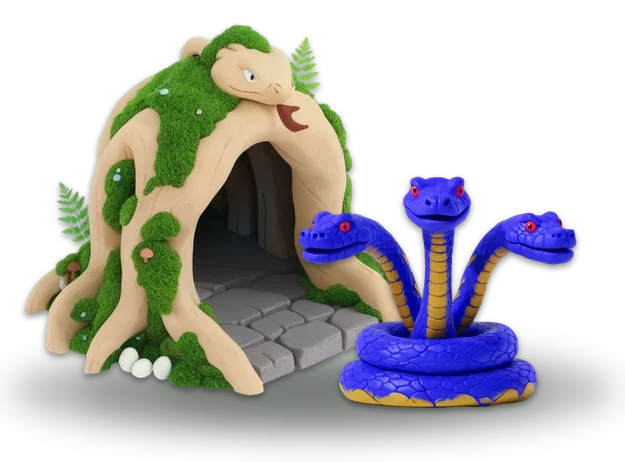
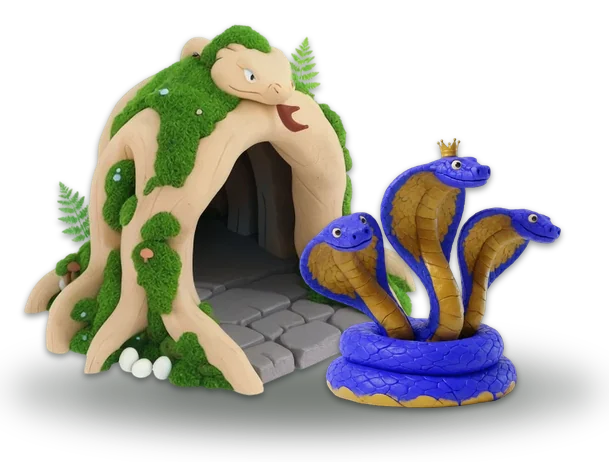
Dessins du fils : le serpent volant et King Snake à trois têtes de cobra
Pâte à modeler, Magnific (612 crédits sur 1 500 accordés par le parent,
dessins B et B choisis par lui). Les ailes tracées par le code sont retirées :
elles sont dans le dessin. Aucune règle ne change.

Claude-Session: https://claude.ai/code/session_0153huJungw2KXDp7mHDZLQs

Changed region(s): [[0.0624, 0.0303, 0.936, 0.9091], [0.4056, 0.3636, 0.4368, 0.5152], [0.0624, 0.6364, 0.0936, 0.6667]]

diff --git a/src/render/flightSignals.ts b/src/render/flightSignals.ts
@@ -1,48 +1,26 @@
 import Phaser from 'phaser';
 import type { Game } from '../game.ts';
-import { flightLift, isFlying } from '../flying.ts';
+import { isFlying } from '../flying.ts';
 import * as DEPTH from './boardLayers.ts';
 
-/** Two shared layers; wings and a detached shadow remain visible with reduced motion. */
+/**
+ * The detached shadow of each flying snake, which shows how high it flies, also with reduced
+ * motion. Its wings are in its drawing (26 November 2026); they were drawn here before.
+ */
 export class FlightSignals {
   private shadows: Phaser.GameObjects.Graphics;
-  private wings: Phaser.GameObjects.Graphics;
 
   constructor(scene: Phaser.Scene) {
     this.shadows = scene.add.graphics().setDepth(DEPTH.flightShadows);
-    this.wings = scene.add.graphics().setDepth(DEPTH.wings);
   }
 
-  draw(game: Game, reduced: boolean) {
-    const shadow = this.shadows,
-      wing = this.wings;
+  draw(game: Game) {
+    const shadow = this.shadows;
     shadow.clear();
-    wing.clear();
     for (const enemy of game.enemies) {
       if (enemy.hp <= 0 || !isFlying(enemy)) continue;
-      const x = enemy.x,
-        y = enemy.y - flightLift - 10,
-        flap = reduced ? 0 : Math.sin(game.time * 9 + enemy.id) * 5;
       shadow.fillStyle(0x18352c, 0.26);
-      shadow.fillEllipse(x, enemy.y + 12, 44, 14);
-      for (const side of [-1, 1]) {
-        const tipX = x + side * 64,
-          tipY = y - 36 - flap;
-        wing.fillStyle(0xf2edd1, 0.98);
-        wing.lineStyle(2, 0x486b50, 0.95);
-        wing.beginPath();
-        wing.moveTo(x + side * 6, y + 5);
-        wing.lineTo(x + side * 32, y - 22);
-        wing.lineTo(tipX, tipY);
-        wing.lineTo(x + side * 54, y - 8);
-        wing.lineTo(x + side * 36, y + 16);
-        wing.closePath();
-        wing.fillPath();
-        wing.strokePath();
-        wing.lineStyle(1, 0x8ca177, 0.9);
-        wing.lineBetween(x + side * 10, y + 3, tipX, tipY);
-        wing.lineBetween(x + side * 10, y + 3, x + side * 54, y - 8);
-      }
+      shadow.fillEllipse(enemy.x, enemy.y + 12, 44, 14);
     }
   }
 }

diff --git a/src/art.ts b/src/art.ts
@@ -29,6 +29,8 @@ import mutantsUrl from './assets/illustrated/allies-mutants.webp';
 import mutantsAttackUrl from './assets/illustrated/allies-mutants-attack.webp';
 import newSnakesUrl from './assets/illustrated/serpents-nouveaux.webp';
 import newSnakesAttackUrl from './assets/illustrated/serpents-nouveaux-attack.webp';
+import kingFlyerUrl from './assets/illustrated/serpents-roi-volant.webp';
+import kingFlyerAttackUrl from './assets/illustrated/serpents-roi-volant-attack.webp';
 import threeBridgesPropsUrl from './assets/illustrated/props-three-bridges.webp';
 import type { Kind } from './data.ts';
 import type { EnemyKind } from './enemies.ts';
@@ -123,6 +125,15 @@ export const ART_SHEETS = [
     frameHeight: 512,
     attackUrl: newSnakesAttackUrl,
   },
+  // The flying snake and King Snake with three cobra heads, drawn on 26 November 2026 (the
+  // child's wish; PROVENANCE-ROI-VOLANT); the two lower cells are empty.
+  {
+    key: 'serpents-roi-volant',
+    url: kingFlyerUrl,
+    frameWidth: 512,
+    frameHeight: 512,
+    attackUrl: kingFlyerAttackUrl,
+  },
 ] as const;
 export type SheetKey = (typeof ART_SHEETS)[number]['key'];
 /**
@@ -201,7 +212,7 @@ export const ALLY_ART: Record<Kind, ArtFrame> = {
 };
 export const ENEMY_ART: Record<EnemyKind, ArtFrame> = {
   normal: frame('enemies-organic', 0),
-  flying: frame('enemies-organic', 0),
+  flying: frame('serpents-roi-volant', 0),
   courtHealer: frame('enemies-organic', 0),
   runner: frame('enemies-organic', 1),
   armored: frame('enemies-organic', 2),
@@ -218,7 +229,7 @@ export const ENEMY_ART: Record<EnemyKind, ArtFrame> = {
   shadow: frame('serpents-nouveaux', 2),
   grasshopper: frame('serpents-nouveaux', 3),
 };
-export const KING_ART = frame('serpents-family', 3);
+export const KING_ART = frame('serpents-roi-volant', 1);
 export const EGG_ART = frame('enemies-mechanical', 3);
 export const HONEY_ART = frame('miels-parapluie', 2);
 export const HONEY_STICKY_ART = frame('miels-parapluie', 3);

diff --git a/tests/flying-art-022.test.ts b/tests/flying-art-022.test.ts
@@ -16,14 +16,20 @@ registerHooks({
 });
 
 // Catches new species disappearing because Actors cannot find a loaded atlas frame.
-test('volants et soigneur réutilisent une silhouette organique réellement chargée', async () => {
-  const { ENEMY_ART, ART_SHEETS } = await import('../src/art.ts');
-  for (const kind of ['flying', 'courtHealer'] as const) {
-    const art = ENEMY_ART[kind];
-    assert.ok(art, `${kind} doit posséder une silhouette`);
-    assert.equal(art.texture, 'enemies-organic');
+test('volants, soigneur et King Snake ont une silhouette réellement chargée', async () => {
+  const { ENEMY_ART, KING_ART, ART_SHEETS } = await import('../src/art.ts');
+  // The flying snake and King Snake have their own drawings since 26 November 2026; the
+  // healer of the court still borrows the green snake.
+  for (const [art, texture] of [
+    [ENEMY_ART.flying, 'serpents-roi-volant'],
+    [KING_ART, 'serpents-roi-volant'],
+    [ENEMY_ART.courtHealer, 'enemies-organic'],
+  ] as const) {
+    assert.ok(art);
+    assert.equal(art.texture, texture);
     const sheet = ART_SHEETS.find((candidate) => candidate.key === art.texture);
-    assert.ok(sheet);
+    assert.ok(sheet && 'attackUrl' in sheet, 'a sheet with its attack poses');
     assert.ok(Number.isInteger(art.frame) && art.frame >= 0 && art.frame < 4);
   }
+  assert.notEqual(ENEMY_ART.flying.frame, KING_ART.frame);
 });

diff --git a/src/render/BattleScene.ts b/src/render/BattleScene.ts
@@ -276,7 +276,7 @@ export class BattleScene extends Phaser.Scene {
     this.drawFeast(game, reduced);
     this.actors.draw(game, this.presentation, this.ink, reduced);
     this.bossSignals.draw(game, reduced);
-    this.flightSignals.draw(game, reduced);
+    this.flightSignals.draw(game);
     this.medicalSignals.draw(game);
     this.effectTrails.draw(this.ink, game.effects, this.presentation.clock, reduced);
     this.feedback.draw(this.presentation, game, reduced);

diff --git a/src/render/boardLayers.ts b/src/render/boardLayers.ts
@@ -20,8 +20,6 @@ export const refuge = 9.6;
 export const flightShadows = 9.65;
 /** Shadows of the fighters and the marks the king draws on the ground. */
 export const groundMarks = 9.7;
-/** Wings beat right under the body they carry. */
-export const wings = 9.99;
 /** Fighters and foreground scenery, sorted by `standingDepth`. */
 export const standing = 10;
 /** Lines drawn over the fighters: ranges, placement, trails. */

diff --git a/tests/attack-pose.test.ts b/tests/attack-pose.test.ts
@@ -82,6 +82,7 @@ test("une planche d'attaque a les cases de sa planche de repos", () => {
       ['serpents-family-attack', 'serpents-family'],
       ['allies-mutants-attack', 'allies-mutants'],
       ['serpents-nouveaux-attack', 'serpents-nouveaux'],
+      ['serpents-roi-volant-attack', 'serpents-roi-volant'],
     ],
   );
   // Chaque personnage et chaque serpent a sa pose ; les décors et les objets n'en ont pas.

diff --git a/tests/board-depth.test.ts b/tests/board-depth.test.ts
@@ -19,7 +19,6 @@ test('les couches du plateau gardent leur profondeur', () => {
       refuge: 9.6,
       flightShadows: 9.65,
       groundMarks: 9.7,
-      wings: 9.99,
       standing: 10,
       ink: 15,
       refugeDetails: 15.1,

diff --git a/scripts/assemble-king-flyer.py b/scripts/assemble-king-flyer.py
@@ -1,0 +1,72 @@
+"""Assemble serpents-roi-volant (idle) and serpents-roi-volant-attack from the Magnific cut-outs.
+
+Usage: python3 scripts/assemble-king-flyer.py <folder of cut-outs> <output folder>
+Inputs (one figure each, background removed): fly-idle.png, fly-attack.png, king-idle.png,
+king-attack.png. See public/assets/illustrated/PROVENANCE-ROI-VOLANT-2026-11-26.md.
+
+A 1024 sheet like serpents-family: the flying snake in the first 512 cell, King Snake in the
+second; the two others stay empty. At rest, each figure takes the place of the picture it
+replaces: King Snake the width and bottom of the king of serpents-family (cell 3), the flying
+snake the bottom of the green snake of enemies-organic (cell 0), which it borrowed until now,
+so that the board anchors do not move. Attack: scaled to the same amount of clay as the figure
+at rest (count of opaque pixels), never beyond its cell, with the lowest 30 % of the figure
+centred where it is at rest, on the same bottom.
+"""
+import sys
+from PIL import Image
+import numpy as np
+
+work, out = sys.argv[1], sys.argv[2]
+TH, CELL, MARGIN = 60, 512, 6
+# name, bottom of the picture it replaces, widest width at rest
+FIGURES = [('fly', 491, CELL - 2 * MARGIN), ('king', 479, 492)]
+
+
+def bbox(a):
+    ys, xs = np.where(a > TH)
+    return xs.min(), ys.min(), xs.max() + 1, ys.max() + 1
+
+
+def cropped(path):
+    figure = Image.open(path).convert('RGBA')
+    return figure.crop(bbox(np.array(figure)[:, :, 3]))
+
+
+def base_centre(alpha):
+    """Middle of the lowest 30 % of the figure."""
+    x0, y0, x1, y1 = bbox(alpha)
+    band = alpha[y1 - int((y1 - y0) * 0.3):y1]
+    xs = np.where((band > TH).any(axis=0))[0]
+    return (xs.min() + xs.max() + 1) / 2
+
+
+rest_sheet = Image.new('RGBA', (1024, 1024), (0, 0, 0, 0))
+attack_sheet = Image.new('RGBA', (1024, 1024), (0, 0, 0, 0))
+for index, (name, bottom, widest) in enumerate(FIGURES):
+    ox, oy = (index % 2) * CELL, (index // 2) * CELL
+    rest = cropped(f'{work}/{name}-idle.png')
+    w, h = rest.size
+    scale = min(widest / w, (bottom - MARGIN) / h)
+    rest = rest.resize((round(w * scale), round(h * scale)), Image.LANCZOS)
+    cell = Image.new('RGBA', (CELL, CELL), (0, 0, 0, 0))
+    cell.paste(rest, ((CELL - rest.width) // 2, bottom - rest.height), rest)
+    rest_sheet.paste(cell, (ox, oy))
+    a = np.array(cell)[:, :, 3]
+    centre = base_centre(a)
+
+    shot = cropped(f'{work}/{name}-attack.png')
+    w, h = shot.size
+    rest_area = int((a > TH).sum())
+    shot_area = int((np.array(shot)[:, :, 3] > TH).sum())
+    scale = min((rest_area / shot_area) ** 0.5, (CELL - 2 * MARGIN) / w, (bottom - MARGIN) / h)
+    shot = shot.resize((round(w * scale), round(h * scale)), Image.LANCZOS)
+    x = round(centre - base_centre(np.array(shot)[:, :, 3]))
+    x = max(MARGIN, min(x, CELL - MARGIN - shot.width))
+    cell = Image.new('RGBA', (CELL, CELL), (0, 0, 0, 0))
+    cell.paste(shot, (x, bottom - shot.height), shot)
+    attack_sheet.paste(cell, (ox, oy))
+    ratio = int((np.array(cell)[:, :, 3] > TH).sum()) / rest_area
+    print(f'{name}: rest {rest_area} px of clay, attack/rest {ratio:.2f}')
+
+rest_sheet.save(f'{out}/serpents-roi-volant.webp', 'WEBP', quality=88, method=6)
+attack_sheet.save(f'{out}/serpents-roi-volant-attack.webp', 'WEBP', quality=88, method=6)

diff --git a/scripts/build-home-scene.py b/scripts/build-home-scene.py
@@ -74,7 +74,7 @@ def picture(image, name, side=128):
 picture(soft_base(piece("strongholds", 0, (356, 36, 500, 232)), 34), "menu-missions")
 picture(cell("interface-craft", 1), "menu-carnet")
 picture(round_cut(piece("allies-front", 1, (166, 22, 440, 296))), "menu-favoris")
-picture(piece("serpents-family", 3, (0, 40, 512, 512)), "menu-classique")
+picture(cell("serpents-roi-volant", 1), "menu-classique")
 picture(cell("interface-craft", 3), "menu-parents")
 
 # La carte des missions : un objet du jeu par mission.
@@ -206,7 +206,7 @@ def place(name, back, front, overlap, drop, front_left):
 
 # L'antre des serpents et King Snake, à gauche comme sur le plateau ; le pont et le raptor au
 # milieu ; le château au cristal et le héros à droite.
-place("antre", (cell("strongholds", 1), 124), (figure(cell("serpents-family", 3)), 90), 40, 4, False)
+place("antre", (cell("strongholds", 1), 124), (figure(cell("serpents-roi-volant", 1)), 90), 40, 4, False)
 place("pont", (cell("terrain-props", 0), 92), (figure(cell("allies-dinosaurs", 0)), 62), 30, 2, True)
 place("chateau", (cell("strongholds", 0), 122), (figure(cell("allies-front", 0)), 92), 26, 6, False)
 

diff --git a/public/assets/illustrated/PROVENANCE-ROI-VOLANT-2026-11-26.md b/public/assets/illustrated/PROVENANCE-ROI-VOLANT-2026-11-26.md
@@ -1,0 +1,59 @@
+# Le serpent volant et King Snake à trois têtes de cobra — dessins du 26 novembre 2026
+
+Fichiers : `src/assets/illustrated/serpents-roi-volant.webp` (repos) et
+`serpents-roi-volant-attack.webp` (attaque), 1024×1024 px, quatre cases de 512 px, WebP
+qualité 88 comme les autres planches depuis le 24 novembre, fond transparent.
+
+| Case | Personnage    | Dessin                                                                       |
+| ---: | ------------- | ---------------------------------------------------------------------------- |
+|    0 | Serpent volant | serpent bleu turquoise au ventre crème, écailles de la famille, deux ailes de chauve-souris bleues bordées de lilas |
+|    1 | King Snake    | cobra royal à trois têtes, capuchons ouverts, corps bleu roi, ventre et capuchons dorés, couronne sur la tête du milieu |
+|  2–3 | (vides)       |                                                                              |
+
+Demandes du fils (idées du 15 novembre, `GAME_DESIGN.md`) : « un plus beau dessin pour les
+serpents volants » ; « le boss est un cobra royal à trois têtes ». Le parent, le 26 novembre :
+plafond de 1 500 crédits, « il doit avoir trois têtes […] de cobra », puis le choix des deux
+dessins (B et B, une question à la fois).
+
+Avant, le serpent volant reprenait le serpent vert ordinaire (`enemies-organic`, case 0) avec
+des ailes crème tracées par le code ; King Snake était un serpent bleu à trois têtes sans
+capuchon (`serpents-family`, case 3). Les ailes tracées sont retirées : elles sont dans le dessin.
+L'ombre au sol du serpent volant reste.
+
+## Comment
+
+Compte Magnific Premium du créateur, projet Personal. Modèle Nano Banana Pro
+(`images_generate`, `mode: imagen-nano-banana-2`, 1:1), 75 crédits l'image ; détourage
+`images_remove_background`, 3 crédits. Références : les planches `serpents-family` (pour King
+Snake) et `enemies-organic` (pour le serpent volant), lues depuis le dépôt public.
+
+- Repos, deux variantes chacun. King Snake : retenu
+  [Lwtt8QPswO](https://www.magnific.com/app/creation/Lwtt8QPswO) (capuchons ouverts, les trois
+  têtes regardent vers la droite) ; écarté xS88BCWjfW (la tête de gauche regarde à gauche).
+  Serpent volant : retenu [fHYYzI0CDY](https://www.magnific.com/app/creation/fHYYzI0CDY)
+  (écailles et ventre de la famille) ; écarté gOvvm1ISXO (corps lisse).
+- Attaque, à partir du dessin retenu, deux variantes chacun. King Snake : retenu
+  [lJhhrGSgv9](https://www.magnific.com/app/creation/lJhhrGSgv9), écarté iGkkPda3uK. Serpent
+  volant : retenu [rgoobAXxtc](https://www.magnific.com/app/creation/rgoobAXxtc), écarté
+  WDUUAu6cXe. Bouches ouvertes, sans dent ni langue (vérifié en grand).
+- Détourages : fHYYmGqCDY, xS88KBrjfW, xS88KIWjfW, eI99ViwdqL.
+- Assemblage : `scripts/assemble-king-flyer.py`. Au repos, King Snake prend la largeur et la
+  ligne de base de l'ancien roi ; le serpent volant la ligne de base du serpent vert qu'il
+  empruntait : les ancres du plateau ne bougent pas. En attaque, chacun garde autant de pâte
+  qu'au repos (rapport 1,00 pour les deux).
+- Accueil : `scripts/build-home-scene.py` découpe King Snake dans la nouvelle planche pour le
+  bouton « Aventure classique » (`menu-classique.webp`) et l'antre du premier écran
+  (`clairiere-antre.webp`). Les autres images de l'accueil ne changent pas.
+
+**Dépense : 612 crédits** (8 images × 75 = 600 ; 4 détourages × 3 = 12). Solde vérifié :
+7 648 → 7 036.
+
+Consignes données au générateur : jouet pour jeunes enfants, jamais effrayant ; ni dent, ni
+langue, ni sang ; fond blanc uni, aucun texte.
+
+## Réserves
+
+- Le serpent volant a moins de pâte que le serpent vert (81 000 pixels opaques contre 100 000) :
+  ses ailes prennent la largeur de la case. Il paraît un peu plus petit sur le plateau.
+- En attaque, les têtes de King Snake avancent peu : on voit surtout les bouches ouvertes.
+- Rien n'a été montré au fils ni vu sur le vrai téléphone.

diff --git a/GAME_DESIGN.md b/GAME_DESIGN.md
@@ -181,6 +181,9 @@ Serpents :
 1. **Le boss est un cobra royal à trois têtes.** Aujourd'hui : le roi à trois têtes existe,
    et « Cobra royal » est le nom d'un serpent ordinaire. À voir avec lui : l'allure du roi
    (capuchon de cobra) et lequel des deux garde le nom.
+   **Dessin fait le 26 novembre 2026** (crédits accordés par le parent, qui demande les trois
+   têtes de cobra) : King Snake est un cobra royal à trois têtes, capuchons ouverts, couronne
+   sur la tête du milieu ; le nom reste « King Snake ».
 2. **Des serpents à grands crocs**, qui font beaucoup de dégâts.
 3. **Un serpent très rare, avec très peu de vie**, mais capable par exemple de tuer un
    Massue d'un seul coup.
@@ -206,6 +209,8 @@ Serpents :
 5. **Des serpents « sauterelles »**, volants, qui sautent derrière nos lignes, dans le dos
    de certaines troupes.
 6. **Un plus beau dessin pour les serpents volants.**
+   **Fait le 26 novembre 2026** : un serpent bleu turquoise avec deux ailes de pâte, à la place
+   du serpent vert et de ses ailes tracées par le code. Aucune règle ne change.
 7. **Plus d'œufs à mesure que la partie dure.**
    **Fait le 15 novembre 2026** (sens et valeurs choisis par le parent, après mesure) : dans
    la grande aventure, quand une vague dure plus de 45 secondes, un œuf de plus apparaît ; un

diff --git a/docs/ARCHITECTURE.md b/docs/ARCHITECTURE.md
@@ -570,6 +570,13 @@ de la révision 3 et ajoute ces trois espèces aux vagues de la grande aventure.
   `public/assets/illustrated/PROVENANCE-SERPENTS-NOUVEAUX-2026-11-18.md`). Ils regardent vers
   la droite. Les images provisoires du 16 novembre restent décrites dans
   `PROVENANCE-SERPENTS-PROVISOIRES-2026-11.md`.
+- **Serpent volant et King Snake** (26 novembre 2026). Planche `serpents-roi-volant` et sa
+  planche d'attaque : le serpent volant (case 0) avec ses ailes dessinées, et King Snake en
+  cobra royal à trois têtes (case 1), assemblés par `scripts/assemble-king-flyer.py`
+  (`public/assets/illustrated/PROVENANCE-ROI-VOLANT-2026-11-26.md`). `ENEMY_ART.flying` et
+  `KING_ART` y pointent ; le soigneur de la cour garde le serpent vert. `FlightSignals` ne
+  trace plus que l'ombre au sol du serpent volant (ses ailes étaient dessinées par le code).
+  Aucune règle ne change : seuls les dessins.
 
 `ui/recruitmentReminder.ts` observe les achats réussis de Session, l’or dépensable
 et les frames actives réelles, indépendamment de ×1/×2. Le rappel reste sur la
